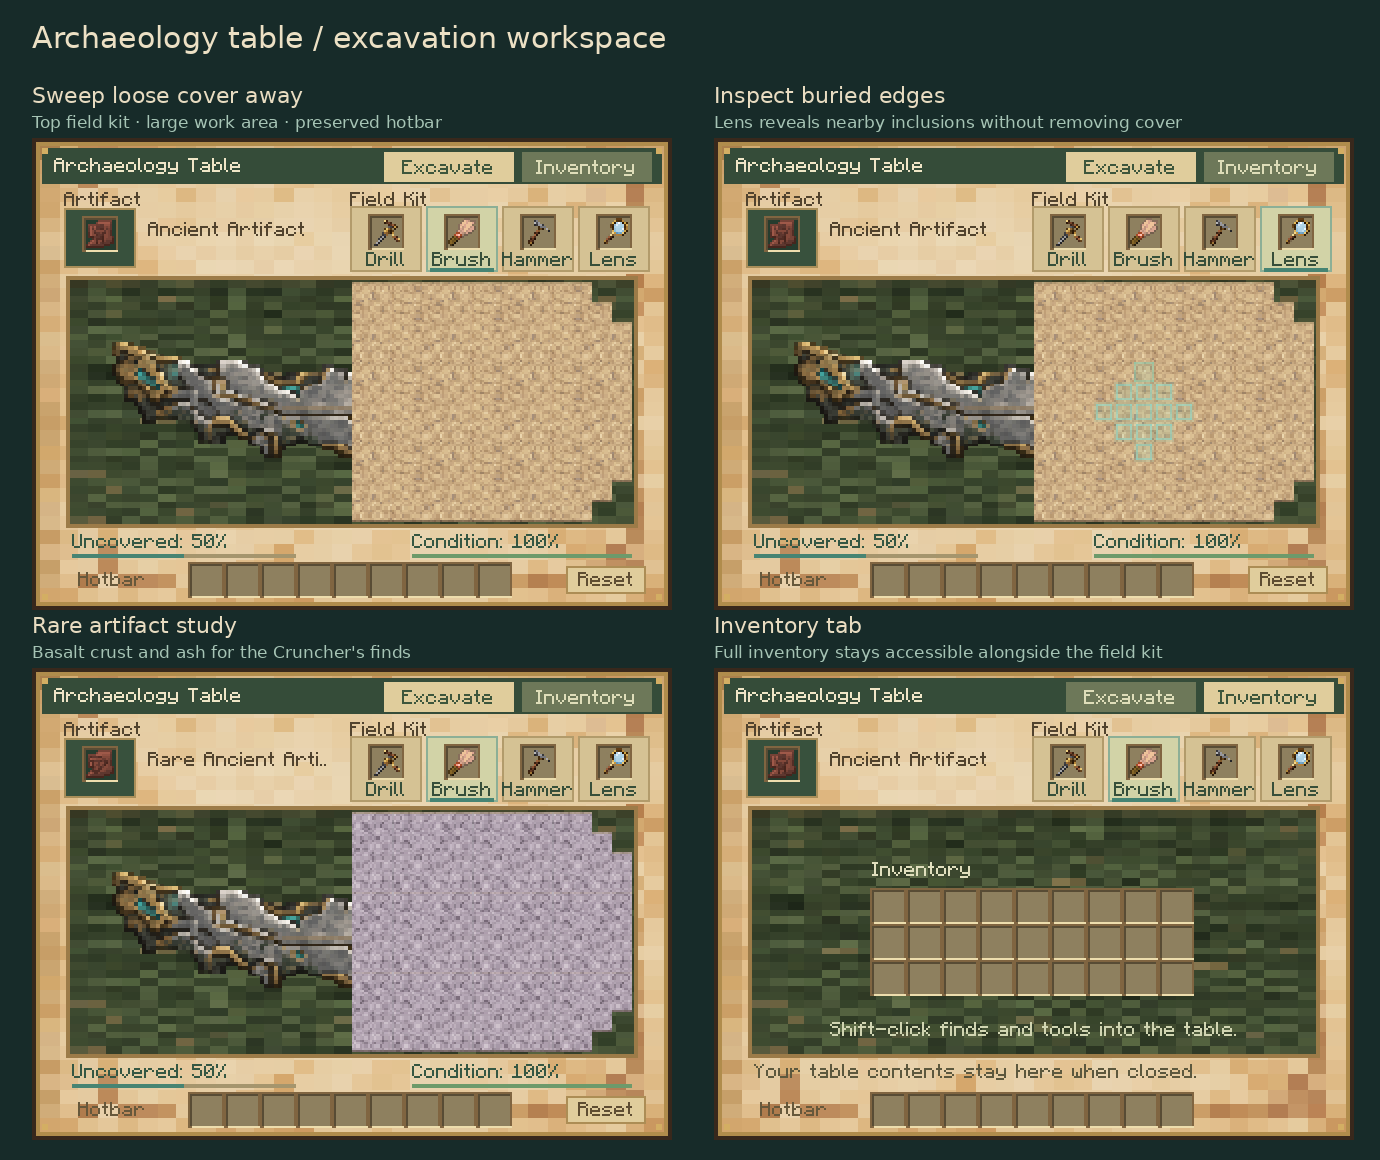
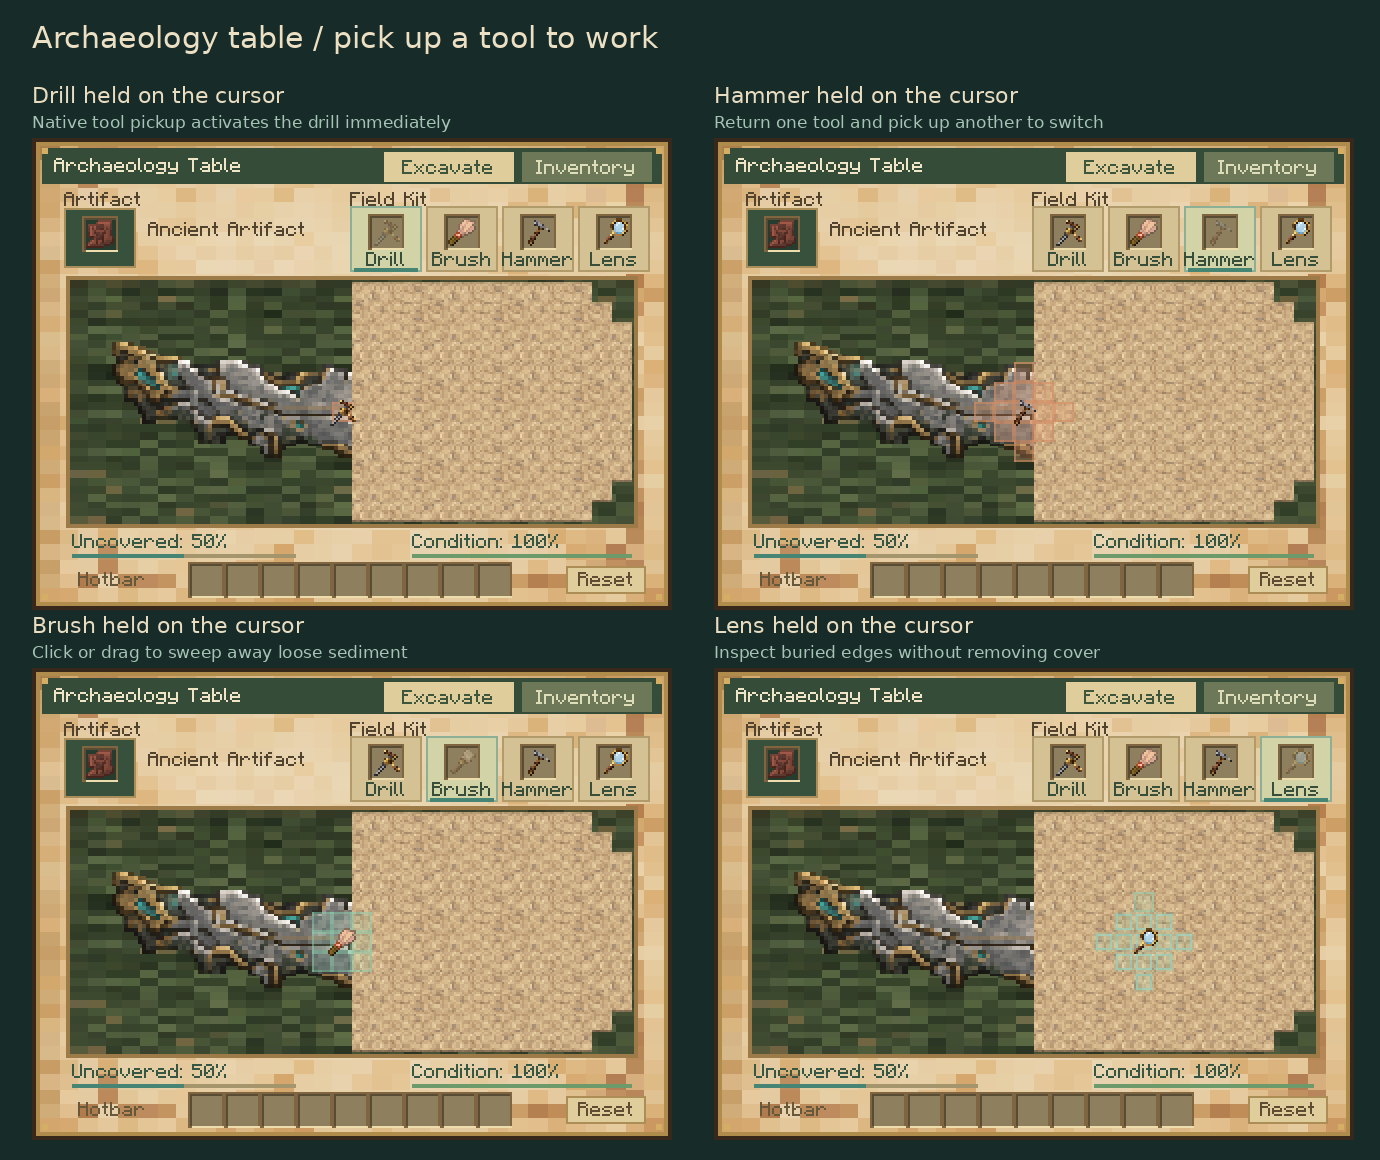
Show carried-tool excavation controls in the instructions and previews

diff --git a/README.md b/README.md
@@ -93,8 +93,8 @@ On the **Excavate** tab, insert an artifact and tools, then **pick up the actual
 item onto your cursor**, just like moving an item in
 Minecraft's inventory. Click or drag over the specimen while holding that tool to
 work. Put it back in its field-kit slot and pick up a different tool to switch.
-You can also pick tools up from your inventory or hotbar; clicking the labels only
-shows help. Empty hands and unrelated items do not excavate.
+You can also pick tools up from your inventory or hotbar. Hover over the labels
+for help. Empty hands and unrelated items do not excavate.
 
 - **Hammer:** breaks a broad patch of thick crust. A second strike near delicate
   material can damage it. Holding still makes one strike; move or click again for another.
